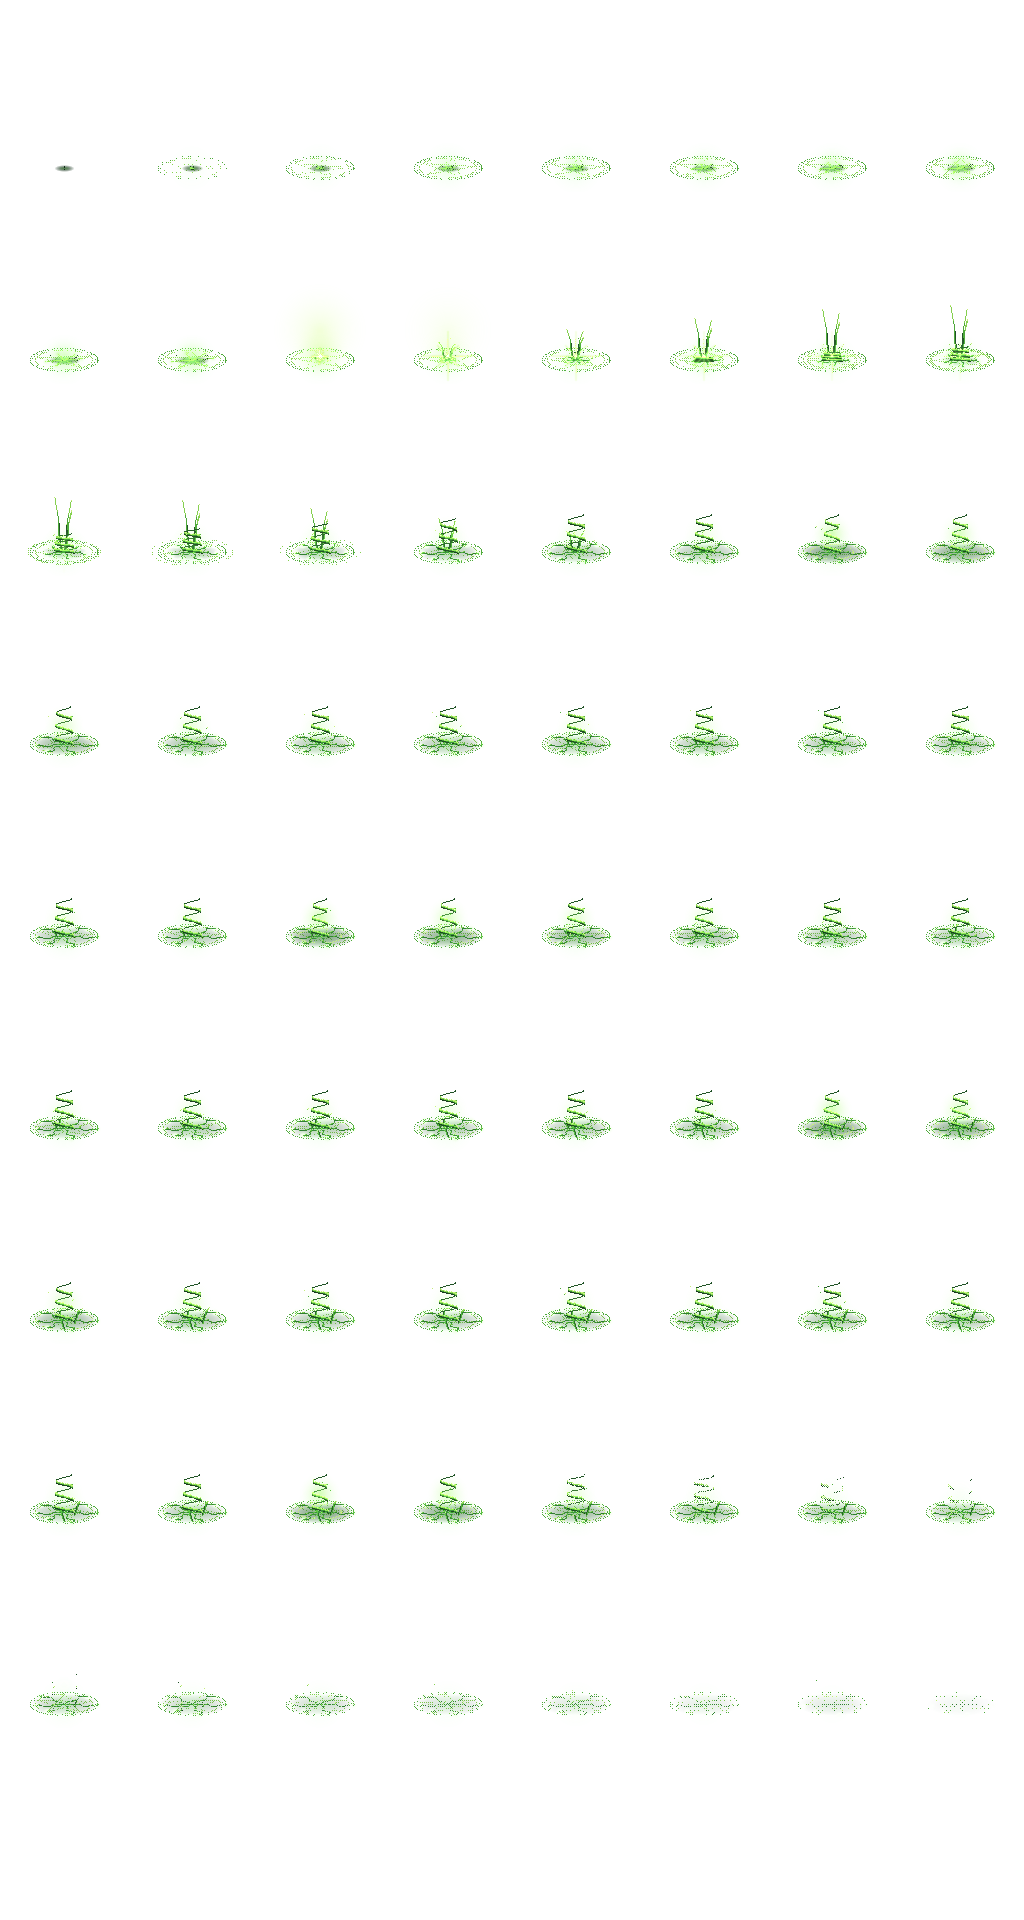
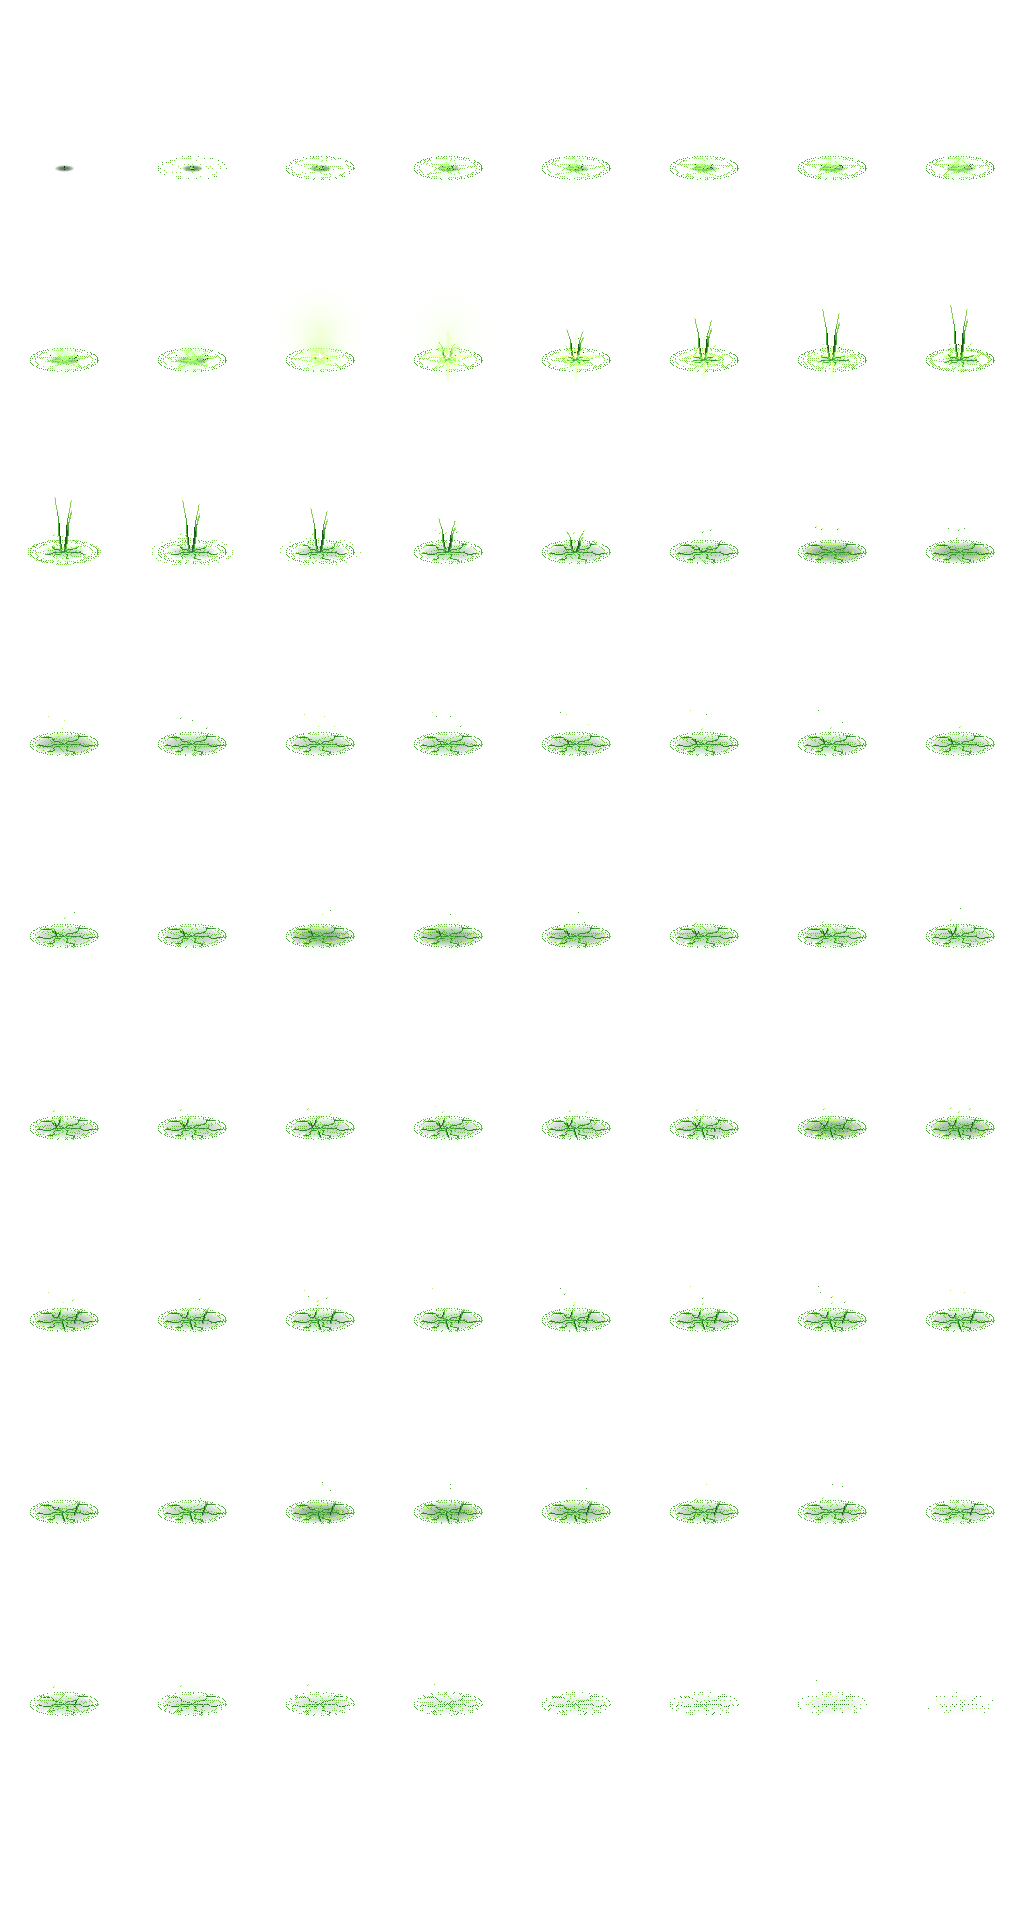
青藤束缚改为命中特效：踩进藤网的妖怪脚下缠藤，技能特效不再画束缚，隐藏旧绿圈 (hold push)

Changed region(s): [[0.7812, 0.5625, 0.8125, 0.5938], [0.2812, 0.4688, 0.3125, 0.5]]

diff --git a/assets/scripts/game/Combat.ts b/assets/scripts/game/Combat.ts
@@ -56,6 +56,7 @@ interface Bullet {
 interface Zone {
     key: string; node: Node; x: number; y: number; r: number;
     dps: number; slow: number; el: Element; life: number; alive: boolean;
+    bound?: Set<Enemy>; // 已播过缠绕特效的妖怪
 }
 
 interface Fx { key: string; node: Node; life: number; maxLife: number; scale: number; alive: boolean; }
@@ -723,10 +724,10 @@ export class Combat {
         const node = this.pool.get(key, this.zoneLayer);
         node.setPosition(x, y);
         node.setScale(r / 50, r / 50, 1);
-        setOpacity(node, 110);
+        setOpacity(node, burn ? 110 : 0); // 青藤的地面由像素特效画，旧绿圈隐藏
         this.zones.push({
             key, node, x, y, r, life, alive: true,
-            dps: burn ? dps * 3 : dps, slow: burn ? 0.3 : 0.5, el: burn ? 'fire' : 'wood',
+            dps: burn ? dps * 3 : dps, slow: burn ? 0.3 : 0.5, el: burn ? 'fire' : 'wood', bound: new Set(),
         });
         // T5 漏挂：焚林落区时若节流空闲立刻闪一次（不改 ×3）
         if (burn && this.burnShengT <= 0) {
@@ -748,6 +749,11 @@ export class Combat {
                 if (Math.hypot(e.x - z.x, e.y - z.y) < z.r + e.def.radius * 0.5 * depthScale(e.depth)) {
                     e.slow = Math.max(e.slow, z.slow);
                     this.hurt(e, z.dps * dt, z.el, false);
+                    // 青藤命中：妖怪第一次踩进藤网时，在它脚下缠上藤蔓
+                    if (z.el === 'wood' && z.bound && !z.bound.has(e)) {
+                        z.bound.add(e);
+                        this.playSheet('status_slow', e.x, this.footY(e), this.fxScale(e));
+                    }
                     // E T3：焚林区 tick 节流 ≤2Hz（不改 ×3）
                     if (z.key === 'zone:burn' && this.burnShengT <= 0) {
                         this.burnShengT = 0.5;

diff --git a/docs/evidence/pixelfx/fx/fuzhen/vine-zone.js b/docs/evidence/pixelfx/fx/fuzhen/vine-zone.js
@@ -10,6 +10,7 @@ export const meta = {
   desc: "符种落地、藤网蔓延、藤须缠绕、持续伤害，随等级变强。",
   tags: ["fuzhen", "wood"], ...FRAME, duration: 3.2, loop: true, fps: 30, bg: "dark",
   options: {
+    bind: 1, // 预览时画束缚；游戏里束缚是命中特效（status_slow），烘焙时关掉
     palette: ["#08140a", "#123018", "#1e5024", "#2e7a30", "#4ea83a", "#86d050", "#c4ec7a", "#f0ffc0"],
     bloom: ["#7a2a4a", "#d0608a", "#f8b0c8", "#fff0f4"], // 5 级花色
     level: 1, // 符咒等级 1–5
@@ -139,7 +140,7 @@ export function draw(p, t, o) {
   }
   // 束缚：正中目标必缠，3 级起再缠两侧各一只，5 级缠五只
   const holds = [[0, 1]].concat(o.lv >= 3 ? [[-R * 0.6, 0.85], [R * 0.6, 0.85]] : [], o.lv >= 5 ? [[-R * 0.3, 0.7], [R * 0.32, 0.7]] : []);
-  holds.forEach(([hx, sc], i) => {
+  if (o.bind >= 0.5) holds.forEach(([hx, sc], i) => {
     const b0 = 0.12 + i * 0.07, g = clamp((u - b0) / 0.3), snap = clamp((u - o.life + 0.15) / 0.3);
     if (g <= 0 || snap >= 1) return;
     bind(p, hx, 36 * sc * (1 + o.lv * 0.04), 10 * sc, g, beat, snap, C, live * (1 - snap), o.lv >= 3, i * 1.3);
